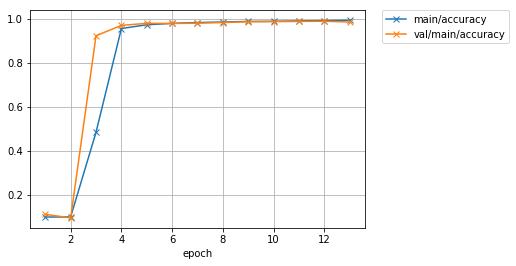
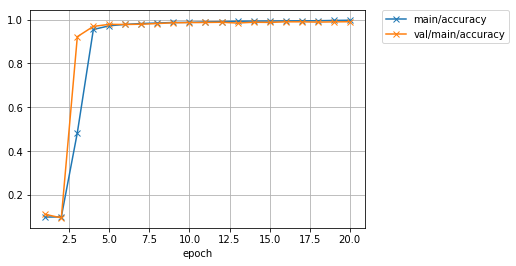
modify CNNByKeras
無事にエラーを修正し、学習可能となったのでColaboratoryで実践する

diff --git a/CNNByKeras.html b/CNNByKeras.html
@@ -11783,6 +11783,7 @@ div#notebook {
 <span class="kn">from</span> <span class="nn">keras.layers</span> <span class="k">import</span> <span class="n">Conv2D</span><span class="p">,</span> <span class="n">MaxPooling2D</span><span class="p">,</span> <span class="n">Dropout</span><span class="p">,</span> <span class="n">Input</span><span class="p">,</span> <span class="n">Dense</span><span class="p">,</span> <span class="n">Flatten</span>
 <span class="kn">from</span> <span class="nn">keras.optimizers</span> <span class="k">import</span> <span class="n">SGD</span>
 <span class="kn">from</span> <span class="nn">keras.losses</span> <span class="k">import</span> <span class="n">categorical_crossentropy</span>
+<span class="kn">from</span> <span class="nn">keras.utils</span> <span class="k">import</span> <span class="n">to_categorical</span>
 <span class="kn">import</span> <span class="nn">argparse</span>
 </pre></div>
 
@@ -11793,7 +11794,7 @@ div#notebook {
 </div>
 <div class="cell border-box-sizing code_cell rendered">
 <div class="input">
-<div class="prompt input_prompt">In&nbsp;[19]:</div>
+<div class="prompt input_prompt">In&nbsp;[21]:</div>
 <div class="inner_cell">
     <div class="input_area">
 <div class=" highlight hl-ipython3"><pre><span></span><span class="c1"># model作成 CNNByChainerと同じ層構成にする</span>
@@ -11833,23 +11834,29 @@ div#notebook {
     <span class="nb">print</span><span class="p">(</span><span class="s1">&#39;acc &#39;</span><span class="p">,</span> <span class="p">(</span><span class="n">count</span><span class="o">/</span><span class="n">batch_size</span><span class="p">))</span>
 
 <span class="k">def</span> <span class="nf">train</span><span class="p">():</span>
-    <span class="n">parser</span> <span class="o">=</span> <span class="n">argparse</span><span class="o">.</span><span class="n">ArgumentParser</span><span class="p">(</span><span class="n">description</span><span class="o">=</span><span class="s1">&#39;train for detection&#39;</span><span class="p">)</span>
-    <span class="n">parser</span><span class="o">.</span><span class="n">add_argument</span><span class="p">(</span><span class="s1">&#39;--load_model_path&#39;</span><span class="p">,</span> <span class="nb">type</span><span class="o">=</span><span class="nb">str</span><span class="p">,</span> <span class="n">default</span><span class="o">=</span><span class="s1">&#39;&#39;</span><span class="p">)</span>
-    <span class="n">parser</span><span class="o">.</span><span class="n">add_argument</span><span class="p">(</span><span class="s1">&#39;--batch_size&#39;</span><span class="p">,</span> <span class="nb">type</span><span class="o">=</span><span class="nb">int</span><span class="p">,</span> <span class="n">default</span><span class="o">=</span><span class="mi">32</span><span class="p">)</span>
-    <span class="n">parser</span><span class="o">.</span><span class="n">add_argument</span><span class="p">(</span><span class="s1">&#39;--epochs&#39;</span><span class="p">,</span> <span class="nb">type</span><span class="o">=</span><span class="nb">int</span><span class="p">,</span> <span class="n">default</span><span class="o">=</span><span class="mi">50</span><span class="p">)</span>
-    <span class="n">parser</span><span class="o">.</span><span class="n">add_argument</span><span class="p">(</span><span class="s1">&#39;--output_dir_path&#39;</span><span class="p">,</span> <span class="nb">type</span><span class="o">=</span><span class="nb">str</span><span class="p">,</span> <span class="n">default</span><span class="o">=</span><span class="s1">&#39;model/&#39;</span><span class="p">)</span>
+<span class="c1">#     parser = argparse.ArgumentParser(description=&#39;train for detection&#39;)</span>
+<span class="c1">#     parser.add_argument(&#39;--load_model_path&#39;, type=str, default=&#39;&#39;)</span>
+<span class="c1">#     parser.add_argument(&#39;--batch_size&#39;, type=int, default=32)</span>
+<span class="c1">#     parser.add_argument(&#39;--epochs&#39;, type=int, default=50)</span>
+<span class="c1">#     parser.add_argument(&#39;--output_dir_path&#39;, type=str, default=&#39;model/&#39;)</span>
 
-    <span class="n">args</span> <span class="o">=</span> <span class="n">parser</span><span class="o">.</span><span class="n">parse_args</span><span class="p">()</span>
+<span class="c1">#     args = parser.parse_args()</span>
 
     <span class="n">model</span> <span class="o">=</span> <span class="n">create_CNN_model</span><span class="p">()</span>
     <span class="c1"># mnistデータの取得</span>
     <span class="p">(</span><span class="n">x_train</span><span class="p">,</span> <span class="n">y_train</span><span class="p">),</span> <span class="p">(</span><span class="n">x_test</span><span class="p">,</span> <span class="n">y_test</span><span class="p">)</span> <span class="o">=</span> <span class="n">mnist</span><span class="o">.</span><span class="n">load_data</span><span class="p">()</span>
     <span class="n">x_train1</span><span class="p">,</span> <span class="n">x_vaild</span><span class="p">,</span> <span class="n">y_train1</span><span class="p">,</span> <span class="n">y_valid</span> <span class="o">=</span> <span class="n">train_test_split</span><span class="p">(</span><span class="n">x_train</span><span class="p">,</span> <span class="n">y_train</span><span class="p">,</span> <span class="n">test_size</span><span class="o">=</span><span class="mf">0.175</span><span class="p">)</span>
     
+    <span class="c1"># グレースケールの画像で28×28なので28×28×1にreshapeする</span>
+    <span class="n">x_train</span> <span class="o">=</span> <span class="n">x_train</span><span class="o">.</span><span class="n">reshape</span><span class="p">(</span><span class="n">x_train</span><span class="o">.</span><span class="n">shape</span><span class="p">[</span><span class="mi">0</span><span class="p">],</span> <span class="mi">28</span><span class="p">,</span> <span class="mi">28</span><span class="p">,</span> <span class="mi">1</span><span class="p">)</span>
+    <span class="c1"># one-hot vector形式に変換する</span>
+    <span class="n">y_train</span> <span class="o">=</span> <span class="n">to_categorical</span><span class="p">(</span><span class="n">y_train</span><span class="p">,</span> <span class="mi">10</span><span class="p">)</span>
+    
     <span class="n">model</span><span class="o">.</span><span class="n">compile</span><span class="p">(</span><span class="n">loss</span><span class="o">=</span><span class="n">categorical_crossentropy</span><span class="p">,</span>
                   <span class="n">optimizer</span><span class="o">=</span><span class="n">SGD</span><span class="p">(</span><span class="n">lr</span><span class="o">=</span><span class="mf">0.01</span><span class="p">,</span> <span class="n">momentum</span><span class="o">=</span><span class="mf">0.9</span><span class="p">,</span> <span class="n">nesterov</span><span class="o">=</span><span class="kc">True</span><span class="p">))</span>
+    <span class="nb">print</span><span class="p">(</span><span class="n">y_train</span><span class="o">.</span><span class="n">shape</span><span class="p">)</span>
     <span class="c1"># 学習</span>
-    <span class="n">model</span><span class="o">.</span><span class="n">fit</span><span class="p">(</span><span class="n">x_train</span><span class="p">,</span> <span class="n">y_train</span><span class="p">,</span> <span class="n">epochs</span><span class="o">=</span><span class="n">args</span><span class="o">.</span><span class="n">epochs</span><span class="p">,</span> <span class="n">batch_size</span><span class="o">=</span><span class="n">args</span><span class="o">.</span><span class="n">batch_size</span><span class="p">)</span>
+    <span class="n">model</span><span class="o">.</span><span class="n">fit</span><span class="p">(</span><span class="n">x_train</span><span class="p">,</span> <span class="n">y_train</span><span class="p">,</span> <span class="n">epochs</span><span class="o">=</span><span class="mi">20</span><span class="p">,</span> <span class="n">batch_size</span><span class="o">=</span><span class="mi">128</span><span class="p">,</span> <span class="n">verbose</span><span class="o">=</span><span class="mi">1</span><span class="p">)</span>
     <span class="c1"># 精度算出</span>
     <span class="n">predict_accuracy</span><span class="p">(</span><span class="n">x_test</span><span class="p">,</span> <span class="n">y_test</span><span class="p">,</span> <span class="n">model</span><span class="p">)</span>
 </pre></div>
@@ -11861,7 +11868,7 @@ div#notebook {
 </div>
 <div class="cell border-box-sizing code_cell rendered">
 <div class="input">
-<div class="prompt input_prompt">In&nbsp;[20]:</div>
+<div class="prompt input_prompt">In&nbsp;[&nbsp;]:</div>
 <div class="inner_cell">
     <div class="input_area">
 <div class=" highlight hl-ipython3"><pre><span></span><span class="n">train</span><span class="p">()</span>
@@ -11881,10 +11888,7 @@ div#notebook {
 
 
 <div class="output_subarea output_stream output_stderr output_text">
-<pre>usage: ipykernel_launcher.py [-h] [--load_model_path LOAD_MODEL_PATH]
-                             [--batch_size BATCH_SIZE] [--epochs EPOCHS]
-                             [--output_dir_path OUTPUT_DIR_PATH]
-ipykernel_launcher.py: error: unrecognized arguments: -f /Users/kokubun/Library/Jupyter/runtime/kernel-cd71228f-b75f-4413-b05d-35bc0d9a19c9.json
+<pre>/Users/kenjimatsumoto/.pyenv/versions/anaconda3-5.2.0/lib/python3.6/site-packages/ipykernel_launcher.py:20: UserWarning: Update your `Model` call to the Keras 2 API: `Model(inputs=Tensor(&#34;in..., outputs=Tensor(&#34;de...)`
 </pre>
 </div>
 </div>
@@ -11894,24 +11898,10 @@ ipykernel_launcher.py: error: unrecognized arguments: -f /Users/kokubun/Library/
 <div class="prompt"></div>
 
 
-<div class="output_subarea output_text output_error">
-<pre>
-An exception has occurred, use %tb to see the full traceback.
-
-<span class="ansi-red-fg">SystemExit</span><span class="ansi-red-fg">:</span> 2
-</pre>
-</div>
-</div>
-
-<div class="output_area">
-
-<div class="prompt"></div>
-
-
-<div class="output_subarea output_stream output_stderr output_text">
-<pre>/Users/kokubun/.pyenv/versions/3.6.2/envs/tensorflow/lib/python3.6/site-packages/IPython/core/interactiveshell.py:2969: UserWarning: To exit: use &#39;exit&#39;, &#39;quit&#39;, or Ctrl-D.
-  warn(&#34;To exit: use &#39;exit&#39;, &#39;quit&#39;, or Ctrl-D.&#34;, stacklevel=1)
-</pre>
+<div class="output_subarea output_stream output_stdout output_text">
+<pre>(60000, 10)
+Epoch 1/20
+ 7168/60000 [==&gt;...........................] - ETA: 13:53 - loss: 2.6369</pre>
 </div>
 </div>
 

diff --git a/CNNByKeras.py b/CNNByKeras.py
@@ -11,10 +11,11 @@ from keras.models import Model
 from keras.layers import Conv2D, MaxPooling2D, Dropout, Input, Dense, Flatten
 from keras.optimizers import SGD
 from keras.losses import categorical_crossentropy
+from keras.utils import to_categorical
 import argparse
 
 
-# In[19]:
+# In[21]:
 
 
 # model作成 CNNByChainerと同じ層構成にする
@@ -54,28 +55,34 @@ def predict_accuracy(x_batch, y_batch, model):
     print('acc ', (count/batch_size))
 
 def train():
-    parser = argparse.ArgumentParser(description='train for detection')
-    parser.add_argument('--load_model_path', type=str, default='')
-    parser.add_argument('--batch_size', type=int, default=32)
-    parser.add_argument('--epochs', type=int, default=50)
-    parser.add_argument('--output_dir_path', type=str, default='model/')
+#     parser = argparse.ArgumentParser(description='train for detection')
+#     parser.add_argument('--load_model_path', type=str, default='')
+#     parser.add_argument('--batch_size', type=int, default=32)
+#     parser.add_argument('--epochs', type=int, default=50)
+#     parser.add_argument('--output_dir_path', type=str, default='model/')
 
-    args = parser.parse_args()
+#     args = parser.parse_args()
 
     model = create_CNN_model()
     # mnistデータの取得
     (x_train, y_train), (x_test, y_test) = mnist.load_data()
     x_train1, x_vaild, y_train1, y_valid = train_test_split(x_train, y_train, test_size=0.175)
     
+    # グレースケールの画像で28×28なので28×28×1にreshapeする
+    x_train = x_train.reshape(x_train.shape[0], 28, 28, 1)
+    # one-hot vector形式に変換する
+    y_train = to_categorical(y_train, 10)
+    
     model.compile(loss=categorical_crossentropy,
                   optimizer=SGD(lr=0.01, momentum=0.9, nesterov=True))
+    print(y_train.shape)
     # 学習
-    model.fit(x_train, y_train, epochs=args.epochs, batch_size=args.batch_size)
+    model.fit(x_train, y_train, epochs=20, batch_size=128, verbose=1)
     # 精度算出
     predict_accuracy(x_test, y_test, model)
 
 
-# In[20]:
+# In[ ]:
 
 
 train()
